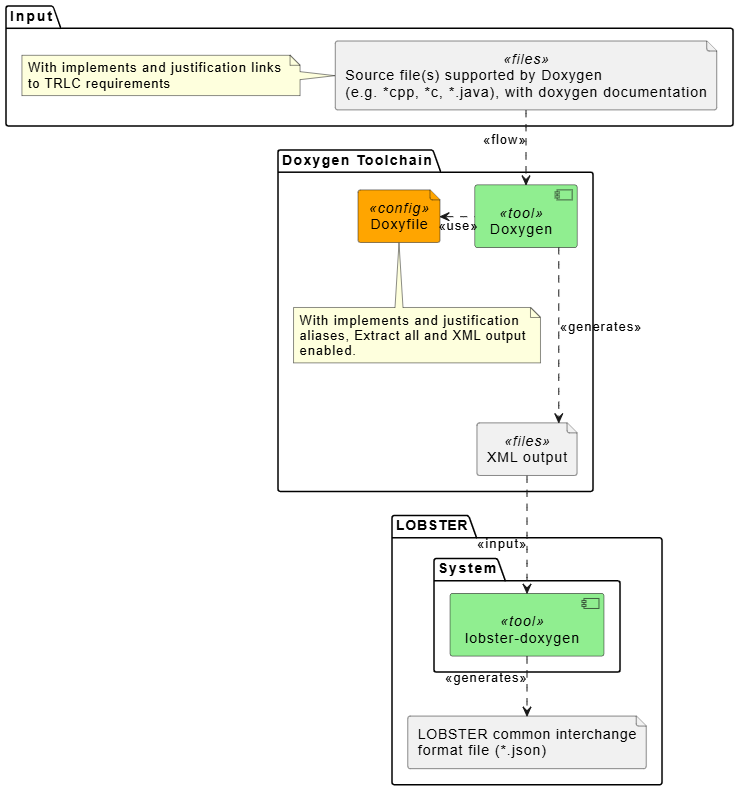
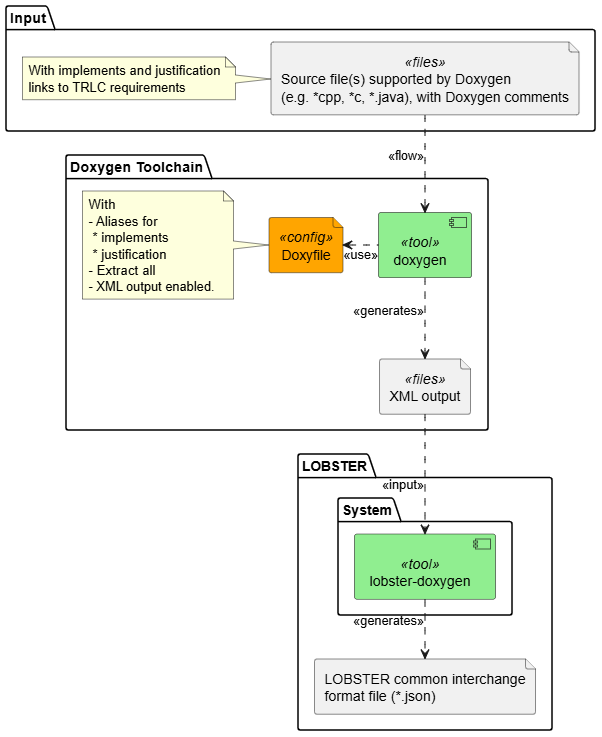
DOC: Integrate architecture part

Changed region(s): [[0.0, 0.0, 1.0, 0.9986]]

diff --git a/README.md b/README.md
@@ -17,16 +17,28 @@
 
 ## Overview
 
-lobster-doxygen is a tool to extract requirement annotations from doxygen XML output files.
-It produces the [LOBSTER common interchange format](https://github.com/bmw-software-engineering/lobster/blob/main/documentation/schemas.md) as output.
+lobster-doxygen is a python commandline tool to extract requirement annotations from doxygen comments using
+doxygen's XML output format. It produces the
+[LOBSTER common interchange format](https://github.com/bmw-software-engineering/lobster/blob/main/documentation/schemas.md)
+as output. A major advantage of lobster-doxygen is that the XML input files can come from every doxygen supported programming
+language, including C, C++, Python, Java, Objective-C, PHP, Fortran, and more. This allows a straightforward and standardized
+integration into the LOBSTER TRLC toolchain. Note, at the moment C and C++ are in focus!
 
-One major advantage of lobster-doxygen is that the XML input files can come from many different programming languages, including C, C++, Python, Java, Objective-C, PHP, Fortran, and more. This allows  a straightforward and standardized integration into the LOBSTER TRLC toolchain.
+Using [doxygen aliases](https://www.doxygen.nl/manual/config.html#cfg_aliases) inside source code comments makes tracing from
+code quite simple. The following aliases are supported:
 
-Note, at the moment C and C++ is in focus!
+- ```@implements{<REQ-ID>}```  to link to requirments for tracing.
 
-Using a doxygen alias makes the tracing in code quite simple. Use ```@implements{<REQ-ID>}``` for tracing and ```@justification{<JUSTIFY-PLEASE>}``` to justify why no tracing is required, but the code fragment is needed.
+- ```@justification{<JUSTIFY-PLEASE>}```  to justify why no tracing is required, but the code fragment is needed.
 
-An overview of how lobster-doxygen fits into the LOBSTER toolchain:
+> [!NOTE]  
+> lobster-doxygen is not a standalone solution, but a component extending the
+> [BMW LOBSTER tooling](https://github.com/bmw-software-engineering/lobster). Understanding of the LOBSTER tool purpose and usage
+> is required to benefit from lobster-doxygen.
+
+The following diagram shows how lobster-doxygen fits into the LOBSTER toolchain. It provides a data flow path from source code
+to the LOBSTER common interchange format.
+
 ![lobster-doxygen in LOBSTER toolchain](doc/architecture/toolchain.png)
 
 ## Installation
@@ -87,7 +99,7 @@ options:
 
 ### Sourcecode
 
-The following example shows how it will look like in the sourecode. Please note that it doesn't show all possibilites.
+The following example shows how requirement annotations in source code will look like, using doxygen annotation.
 
 ```cpp
 
@@ -119,14 +131,14 @@ Please be aware of how to document in general using doxygen, see the [attention 
 ## Doxygen Configuration
 
 In order to feed lobster-doxygen with the correct data, Doxygen needs to be configured.
-For the requirement annotation the `Doxyfile` needs the following aliases:
+The following ALIASES definitions inside the `Doxyfile` are needs to support the requirement annotations:
 
 ```bash
 ALIASES                = "implements{1}=@xrefitem implements \"Implements\" \"Requirement Traceability\" Requirement: \1" \
                          "justification{1}=@xrefitem justified \"Justified\" \"Justification Overview\" Justification: \1"
 ```
 
-Change extract settings that Doxygen will use all entities in documentation:
+Change the extract settings as follows to instruct Doxygen to use all entities in documentation:
 
 ```bash
 EXTRACT_ALL            = YES
@@ -160,22 +172,22 @@ EXTRACT_LOCAL_METHODS  = YES
 EXTRACT_ANON_NSPACES   = YES
 ```
 
-To enable the XML output:
+Finally enable the XML output generation:
 
 ```bash
 GENERATE_XML           = YES
 ```
 
-Once doxygen has run successfully, the `xml` directory can be set as the `doxygen_xml_folder` in the application.
-Example `Doxyfile` can be found in the [examples](./examples) directory.
+Once doxygen has run successfully, the `xml` directory can be used as the `doxygen_xml_folder` when calling lobster-doxygen.
+An example `Doxyfile` can be found in the [examples](./examples) directory.
 
 ## Examples
 
-Check out the [Examples](./examples).
+Check out the [Examples](./examples) subpage for using the included example(s).
 
 ## SW Documentation
 
-More information on the deployment and architecture can be found in the [documentation](./doc/README.md)
+More information on the deployment and architecture can be found in the [documentation](./doc/README.md) subpage.
 
 For Detailed Software Design run `$ /doc/detailed-design/make html` to generate the detailed design documentation that then can be found
 in the folder `/doc/detailed-design/_build/html/index.html`

diff --git a/doc/README.md b/doc/README.md
@@ -1,7 +1,9 @@
 # Software Architecture
 
-The following section describes the high level software architecture. 
-For a overview of the complete TRLC LOBSTER toolchain see Overview section in [main README](../README.md).
+The following section describes the high level software architecture.
+For an overview of the complete LOBSTER toolchain see the Overview section in [main README](../README.md).
+
+The lobster-doxygen tool is a converter from the Doxygen XML format into the LOBSTER interchange file Format. It enables the generation of LOBSTER traces from from source code based on annotations in doxygen comments.
 
 ## Use Cases
 
@@ -9,8 +11,18 @@ For a overview of the complete TRLC LOBSTER toolchain see Overview section in [m
 
 ## Context Diagram
 
+The following picture shows the overall tool flow:
+
 ![context diagram](./architecture/context_diagram.png)
 
-## Class Diagram
+## Static View
 
-![class diagram](./architecture/class_diagram.png)
+The following diagram shows the static architecture of the tool. It contains the components (Python modules) and their relations:
+
+![Class diagram](./architecture/class_diagram.png)
+
+## Dynamic View
+
+The following diagram shows the dynamic view of the tool using a sequence diagram:
+
+![Sequence diagram](./architecture/sequence_diagram.png)

diff --git a/examples/simple-cpp-application/README.md b/examples/simple-cpp-application/README.md
@@ -11,5 +11,10 @@ This is an example of a C++ application to generates Doxygen XML output for the 
 
 ## XML Output generation
 
-- `doxygen` to generate XML output.
-- `lobster-doxygen -v -o .\out\sw_test_result-lobster.json .\out\xml` to generate LOBSTER common interchange format file.
+Call `doxygen` to generate XML output.
+
+## XML conversion to LOBSTER interchange format
+
+Call `lobster-doxygen --verbose --output ./out/sw_test_result-lobster.json ./out/xml` to generate the LOBSTER common interchange format file.
+
+THis will create the file ```out/sw_test_result-lobster.json``` containing the trace information from the source code.

diff --git a/examples/README.md b/examples/README.md
@@ -4,4 +4,7 @@
 
 ## simple-cpp-application
 
-[simple-cpp-application](./simple-cpp-application) is an example of a C++ application to generates Doxygen XML output for the Lobster-Doxygen tool.
+[simple-cpp-application](./simple-cpp-application) is an example C++ application configured to generate
+Doxygen XML output, which is suitable for the lobster-Doxygen tool.
+
+Consult the [example's readme](./simple-cpp-application/README.md) for further information.
